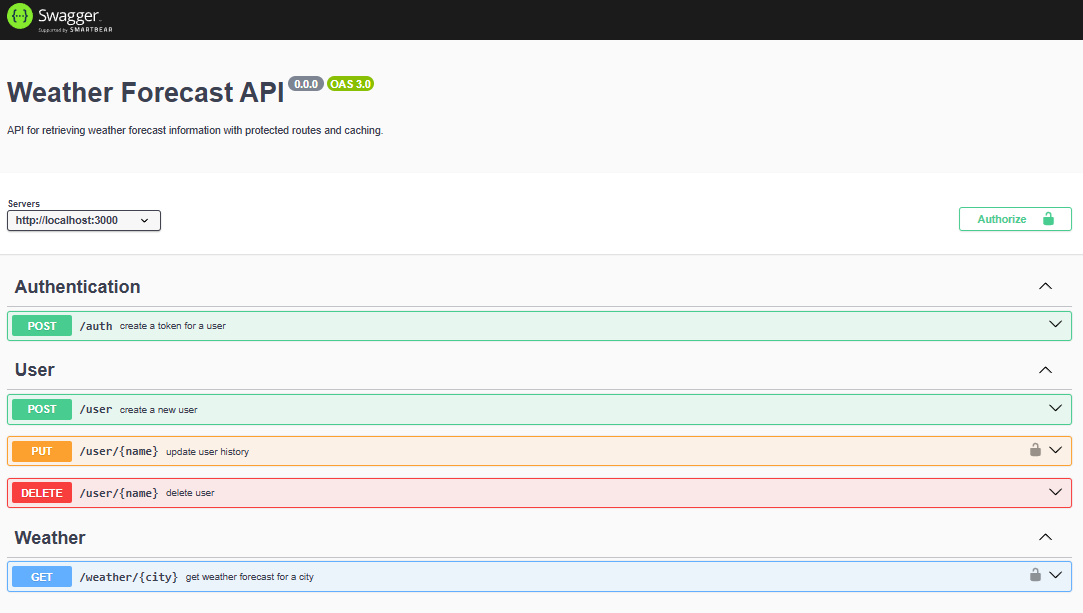
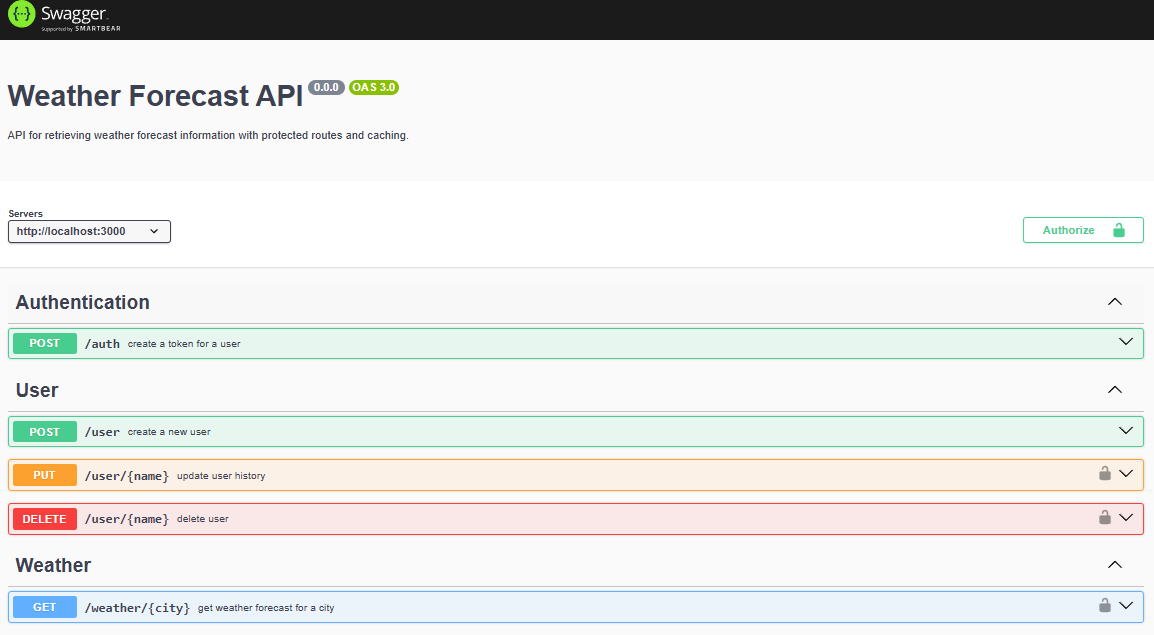
change swagger protected endpoint and image for tests and swagger

diff --git a/backend/src/routes/user/controller.ts b/backend/src/routes/user/controller.ts
@@ -101,6 +101,8 @@ router.put('/:username',authenticateJWT, async (req, res) => {
  * @swagger
  * /user/{name}:
  *   delete:
+ *     security:
+ *       - bearerAuth: []
  *     summary: delete user
  *     params:
  *       - name: user
